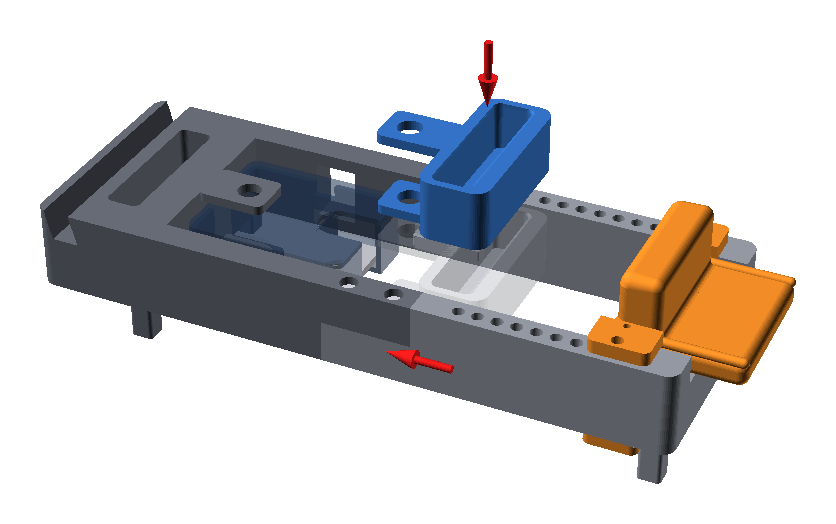
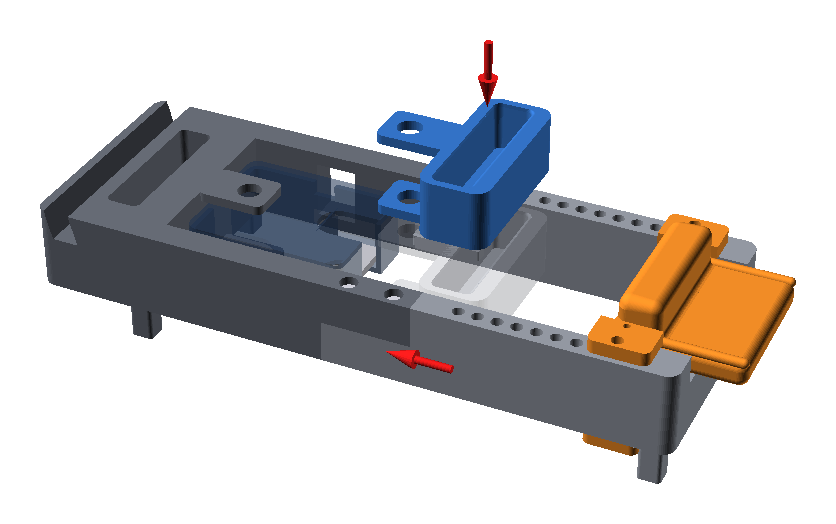
fix: lower the palm bolster to 20 mm above the deck
The 32 mm bolster was too high. Its top is now at Z 54, 20 mm above the
frame top and 2.5 mm above the pin buttons; the pin-clearance assertion
now requires at least 2 mm.

Changed region(s): [[0.7153, 0.3664, 0.8708, 0.6107]]

diff --git a/docs/src/design/index.md b/docs/src/design/index.md
@@ -59,7 +59,7 @@ matching 5 mm rounded edges and no groove at the transition. Two low,
 than the grip so it slides past the grip guides when it goes onto the frame.
 
 At the finger-facing end, a straight palm bolster modelled on the GoGor LITE
-pad spans the full 78 mm pad width. It is 22 mm deep and 32 mm tall above
+pad spans the full 78 mm pad width. It is 22 mm deep and 20 mm tall above
 the deck, with a nearly flat 11 mm top, a 6 mm front top radius, a 5 mm rear
 top radius, rounded ends blended into the side lips, and a 3 mm concave fillet
 into the deck. It has no cup or ridge. The palm heel pushes on its
@@ -72,8 +72,8 @@ Behind the bolster, a 38 × 68 mm open heel deck remains solid and
 uninterrupted: no holes, slots, exposed fasteners, or separate pads beneath
 the wrist. The 14 mm-thick deck sits at Z = 34 mm, level with the finger
 pocket's +Z opening; only the bolster and the low lips rise above it. The
-bolster top, at Z = 66 mm, is 14.5 mm above the pin buttons, so a thumb
-wrapped round the bolster stays above the pin heads. A rounded clearance
+bolster top, at Z = 54 mm, is 2.5 mm above the pin buttons, and the pin heads
+sit 6.5 mm outboard of the bolster ends. A rounded clearance
 channel in the fixed right post keeps 2 mm under the deck at full wrist
 travel. The upper pin arms are trimmed flush with the palm face across the
 pad width and join the saddle through the bolster's end faces.

diff --git a/AGENTS.md b/AGENTS.md
@@ -26,8 +26,8 @@
 - Keep the grip-guide ledges under the grip's side walls with a Z gap and
   free X travel, so they catch tilt without carrying measured load.
 - Keep the rounded palm/wrist-heel pad beside the hangboard pocket, with its
-  heel deck level with the pocket mouth and its palm bolster rising 32 mm
-  above it, at least 10 mm above the pin buttons.
+  heel deck level with the pocket mouth and its palm bolster rising 20 mm
+  above it, at least 2 mm above the pin buttons.
 - Preserve its nine positively locked 25–105 mm opening positions, with
   discrete holes in the fixed rails, round holes in the pad arms, and two
   tethered Ø6 mm push-button ball-lock pins; adjustment must remain tool-free.

diff --git a/docs/src/build/checks-and-limits.md b/docs/src/build/checks-and-limits.md
@@ -5,7 +5,7 @@
 - [ ] **All nine positions:** the pins go in and lock easily each time, and
       the heel deck passes cleanly through the channel in the palm post.
 - [ ] **Pin heads:** you can grip and pull each pin at every position. The
-      heads sit 6.5 mm from the bolster ends, 14.5 mm below its top.
+      heads sit 6.5 mm from the bolster ends, 2.5 mm below its top.
 - [ ] **Case access:** the USB port and switch are reachable at every position.
 - [ ] **Tabletop:** only the four feet touch. The nuts, bolt tips and pin tips
       stay clear.
